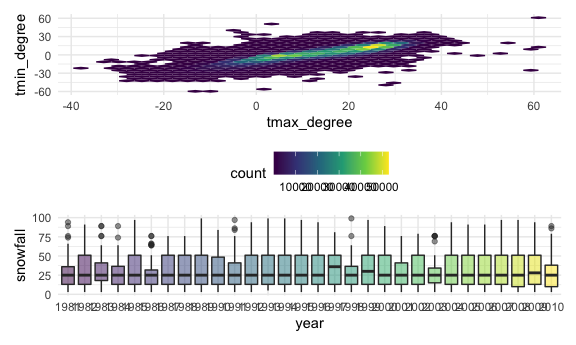
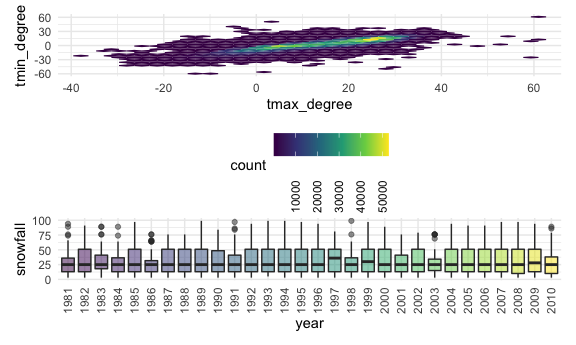
turn legend/x axis text angle

diff --git a/p8105_hw3_yz3955.md b/p8105_hw3_yz3955.md
@@ -305,7 +305,8 @@ than 0 and less than 100 separately by year.
 tmax_tmin_p =
   ny_noaa_df %>% 
   ggplot(aes(x = tmax_degree, y = tmin_degree)) +
-  geom_hex()
+  geom_hex()+
+  theme(legend.text = element_text(angle = 90, vjust = 0.5, hjust = 1)) 
 
 dis_snow_p =
   ny_noaa_df %>% 
@@ -315,6 +316,7 @@ dis_snow_p =
   filter(snow == (1:99)) %>% 
   ggplot(aes(x = year, y = snow, fill = year)) +
   geom_boxplot(alpha = .5, show.legend = FALSE) +
+  theme(axis.text.x = element_text(angle = 90, vjust = 0.5, hjust = 1)) +
   ylab("snowfall")
 ```
 
